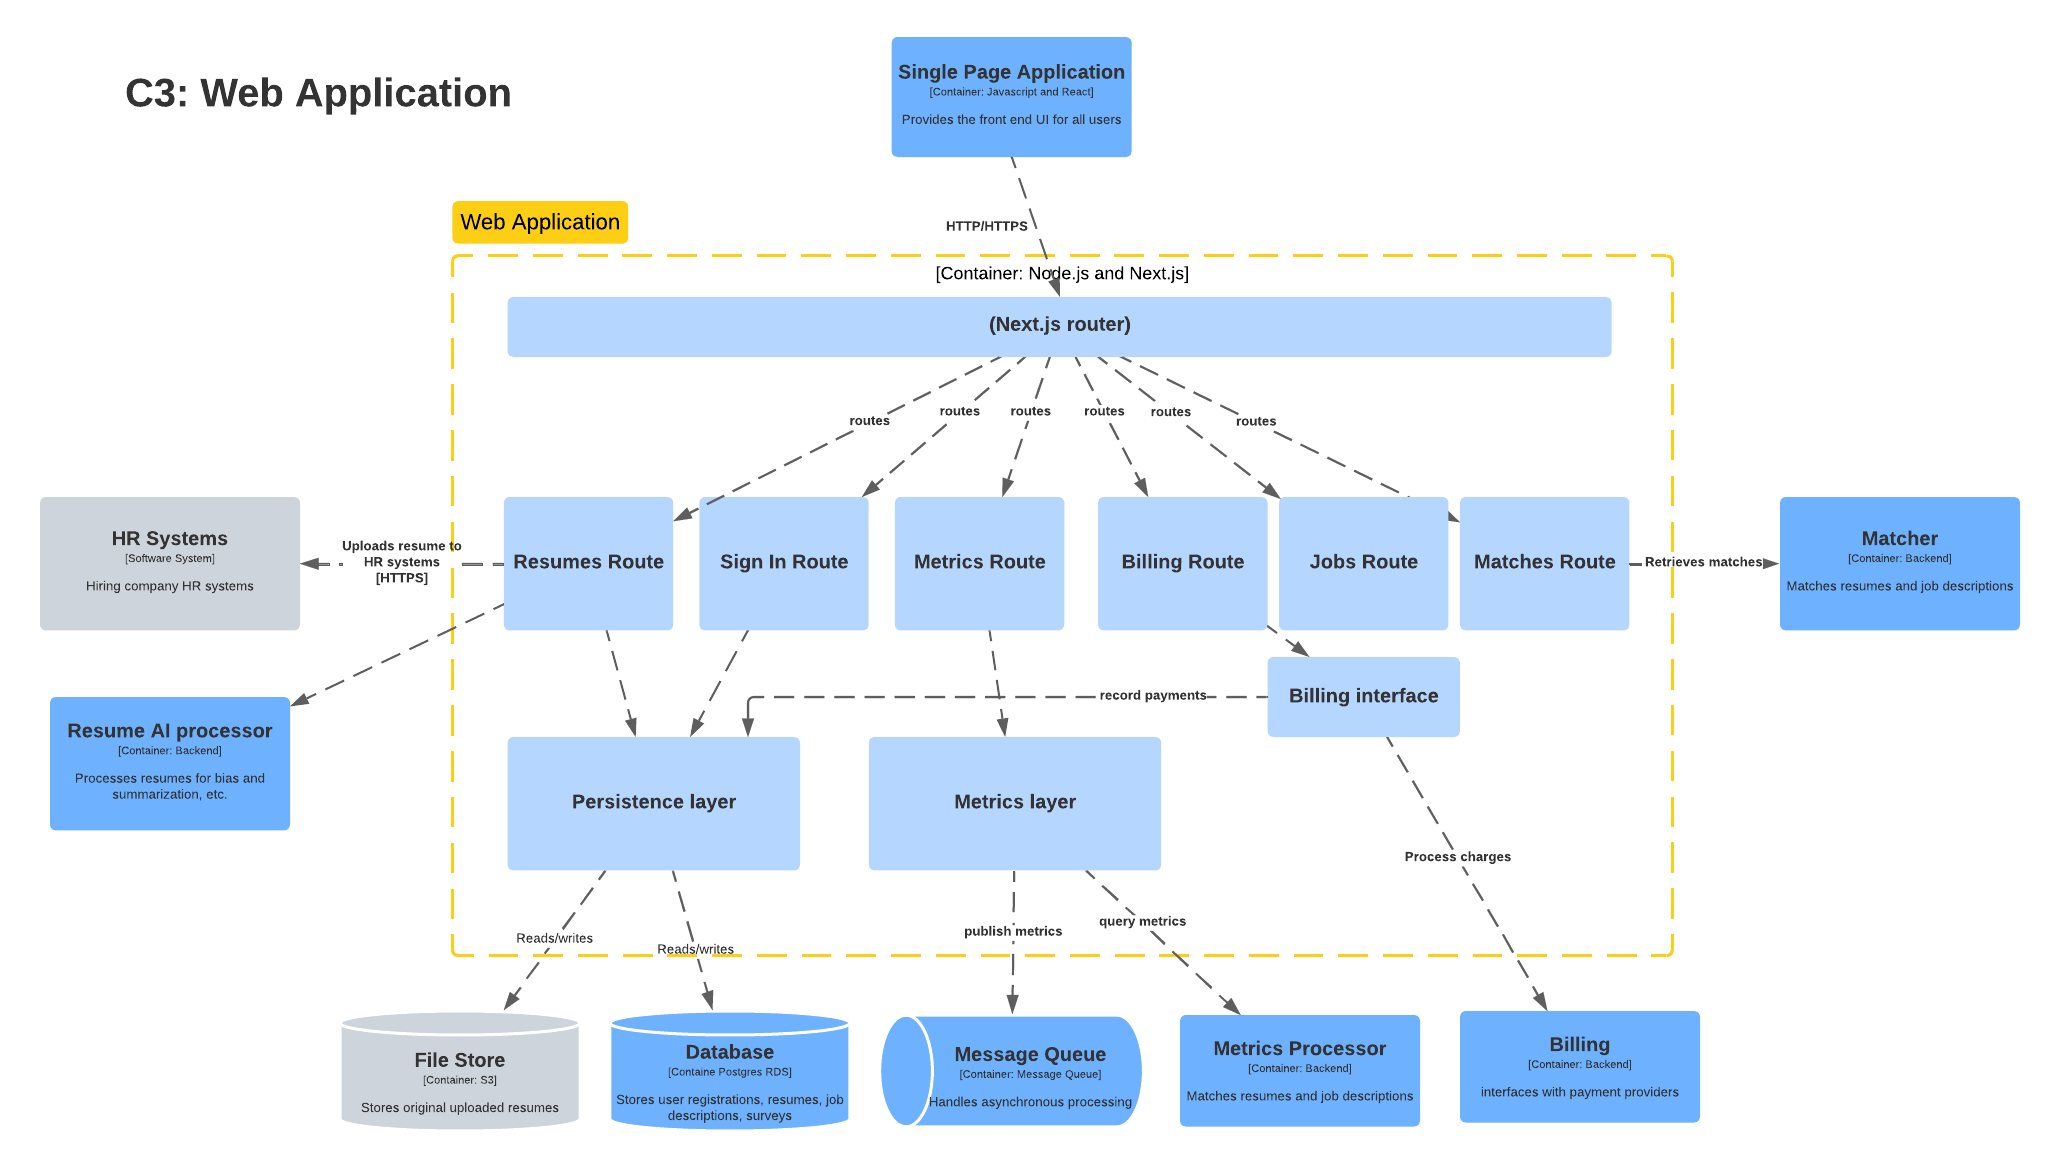
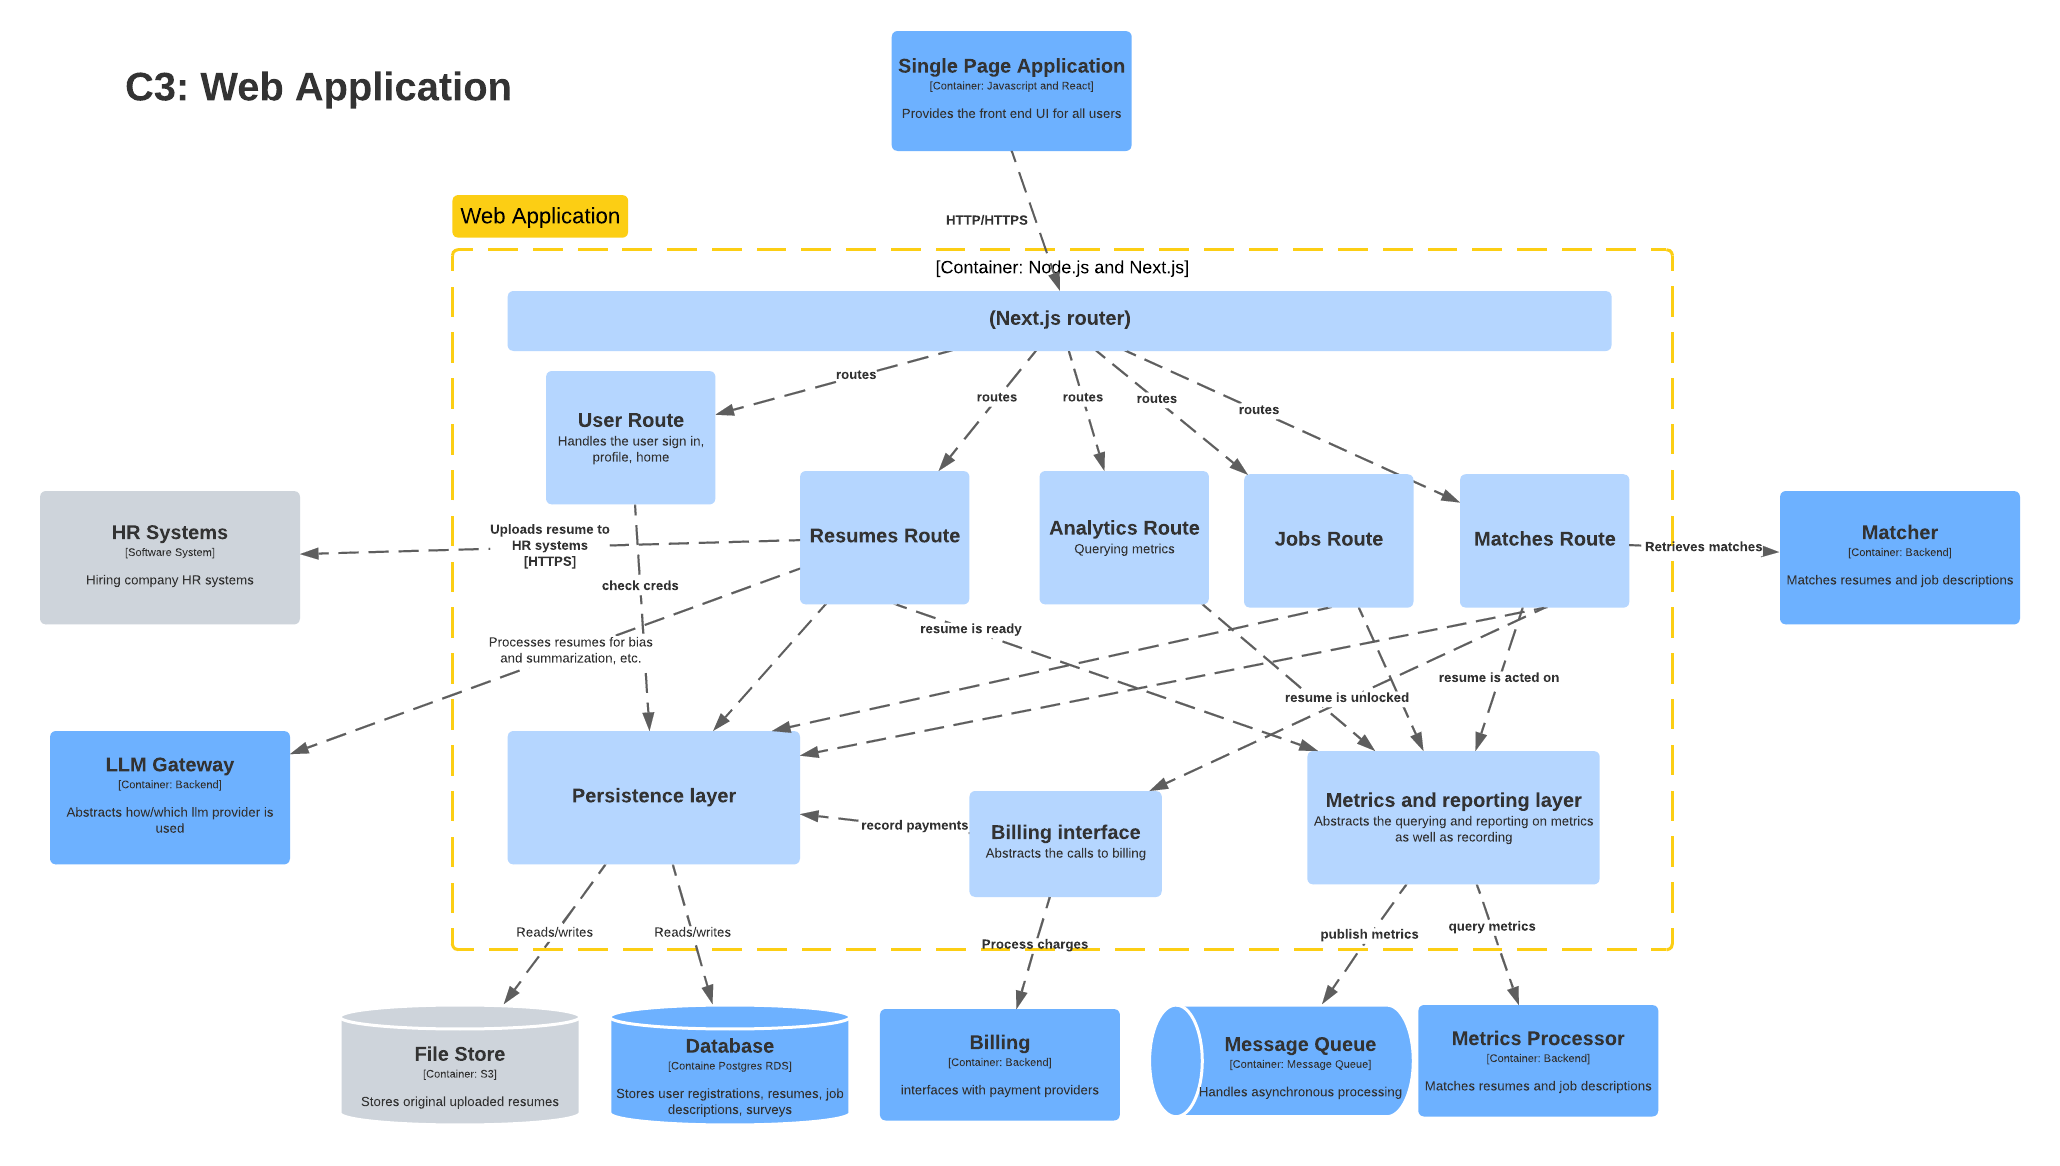
Tweaks

diff --git a/ADRs/ADR-04-Web-Application-Stack.md b/ADRs/ADR-04-Web-Application-Stack.md
@@ -15,21 +15,23 @@ Aspects to consider:
 3. Flexibility on hosting
 4. Supports component libraries for reuse
 5. UI Components requirements
-    1. Component reuse by component libraries
-    2. Accessible by default
+   1. Component reuse by component libraries
+   2. Accessible by default
+6. Various teams could eventually own parts of the UI
 
 ## Decision
 
 We will use the following:
 
-* Next.js
-  * Supports server side rendering for a responsive UI
-  * Supports front end frameworks like React
-* React
-  * Most-used front end framework
-  * Broadly supported
-* TBD: Component library
+- Next.js
+  - Supports server side rendering for a responsive UI
+  - Supports front end frameworks like React
+  - Ease of having path routes - this makes it easier to segregate UIs that different teams might eventually own.
+- React
+  - Most-used front end framework
+  - Broadly supported
+- TBD: Component library
 
 ## Consequences
 
-We will need a Node.js backend server to host this on.
+We will need a Node.js backend server to host this on. This also means that our business logic will initially exist within the Next.js app but can easily be moved out to other microservices later.

diff --git a/README.md b/README.md
@@ -159,7 +159,7 @@ The C3 component diagram for the Next.js web application is as follows:
 
 Aspects of this application:
 - **Next.js router** - this is the server-side routing of requests into the Node.js server. Next.js has file-based routing that will be used.
-- **Routes**
+- **Routes** - routes contain the UI components and business logic for the particular route.
   - **Resumes route** - this handles all requests related to resumes: uploading, managing, viewing as well as summarizing and viewing suggestions.
   - **Sign in route** - handles the authentication-specific requests for establishing user sessions. This also handles password resets and other user registration issues.
   - **Metrics route** - handles viewing and analyzing various metrics about ClearView.
